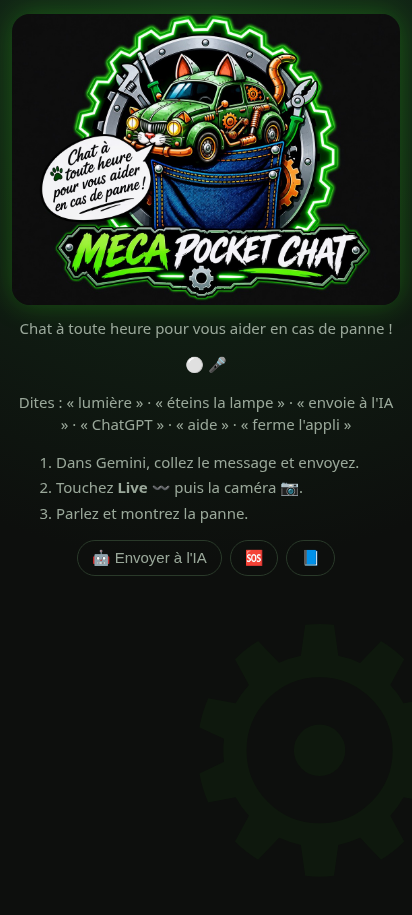
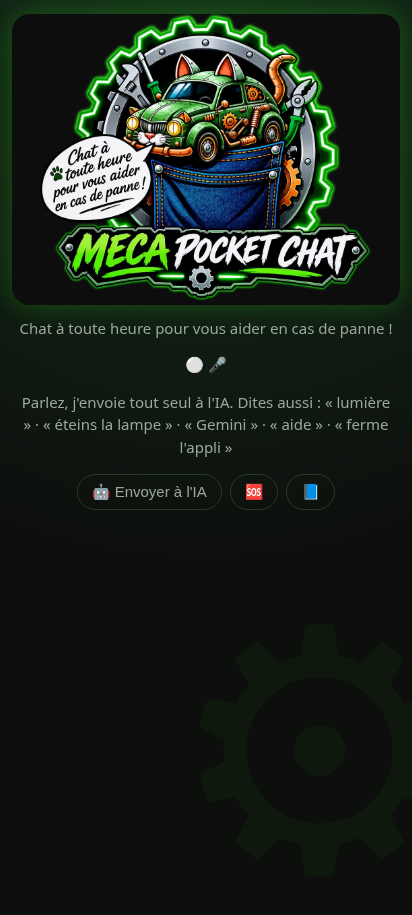
IA intégrée (Worker)

diff --git a/app.js b/app.js
@@ -37,19 +37,27 @@ REC=new R();REC.lang='fr-FR';REC.continuous=true;REC.interimResults=true;
 REC.onresult=ev=>{if(speechSynthesis.speaking)return;clearTimeout(SIL);const r=ev.results[ev.results.length-1];if(!r.isFinal){SIL=setTimeout(auto,4000);return}
 const t=r[0].transcript.trim();if(!t)return;if(!cmd(t)){DIC+=(DIC?' ':'')+t;const d=document.getElementById('d');if(d){d.style.display='block';d.value=DIC}SIL=setTimeout(auto,2500)}};
 REC.onstart=()=>ind('🟢 🎤 J\'écoute');REC.onend=()=>{ind('⚪ 🎤');if(ON)setTimeout(()=>{try{REC.start()}catch(e){}},300)};try{REC.start()}catch(e){}}
-function auto(){if(SENT||!DIC.trim())return;SENT=true;say('Je transmets à l\'IA');setTimeout(gpt,1500)}
+const API='https://meca-pocket-chat.loicm7059.workers.dev';let HIST=[];
+function frame(){try{const v=document.getElementById('prev');if(!v||!v.videoWidth)return null;const c=document.createElement('canvas');const k=512/Math.max(v.videoWidth,v.videoHeight);c.width=v.videoWidth*k;c.height=v.videoHeight*k;c.getContext('2d').drawImage(v,0,0,c.width,c.height);return c.toDataURL('image/jpeg',.7).split(',')[1]}catch(e){return null}}
+function show(t){const q=document.getElementById('qq');if(q){q.style.display='block';q.textContent=t}}
+function sayThen(t){return new Promise(r=>{try{const u=new SpeechSynthesisUtterance(t);u.lang='fr-FR';u.onend=r;u.onerror=r;speechSynthesis.cancel();speechSynthesis.speak(u)}catch(e){r()}})}
+async function auto(){if(SENT||!DIC.trim())return;SENT=true;const text=DIC.trim();DIC='';const d=document.getElementById('d');if(d)d.value='';
+show('⏳ Je réfléchis…');ind('🟡 IA');let out;
+try{const r=await fetch(API,{method:'POST',headers:{'Content-Type':'application/json'},body:JSON.stringify({history:HIST,text,imageBase64:frame()})});out=(await r.json()).text}catch(e){out='Problème de connexion. Réessayez, ou dites ChatGPT.'}
+HIST.push({role:'user',text},{role:'model',text:out});HIST=HIST.slice(-12);
+show(out.replace(/[*#]/g,''));await sayThen(out.replace(/[*#_]/g,''));SENT=false;ind('🟢 🎤 J\'écoute')}
 function stopAll(){ON=false;try{REC&&REC.stop()}catch(e){}try{lamp(false)}catch(e){}LS&&LS.getTracks().forEach(t=>t.stop());LS=null}
 function bye(){say('Au revoir, bonne route !');stopAll();m.innerHTML='<h2 style="text-align:center">👋 Au revoir, bonne route !</h2>';setTimeout(()=>{try{window.close()}catch(e){}},1500)}
 function fullPrompt(){return PROMPT+(DIC||'(pas encore décrite : demande-moi quel est mon problème)')}
 async function video(){await copy();stopAll();document.getElementById('st').style.display='block';setTimeout(()=>{location.href=GEM_LINK||'https://gemini.google.com/app'},1200)}
 async function gpt(){await copy();stopAll();location.href='https://chatgpt.com/?q='+encodeURIComponent(fullPrompt())}
-function home(){m.innerHTML=`<div id="mic" class="help" style="text-align:center">⚪ 🎤</div><h1 id="qq" style="display:none;text-align:center;font-size:40px;line-height:1.2;color:var(--g);text-shadow:0 0 14px rgba(57,255,20,.5);margin:10px 0">Quel est votre problème ?</h1>
+function home(){m.innerHTML=`<div id="mic" class="help" style="text-align:center">⚪ 🎤</div><h1 id="qq" style="display:none;text-align:center;font-size:30px;white-space:pre-line;line-height:1.2;color:var(--g);text-shadow:0 0 14px rgba(57,255,20,.5);margin:10px 0">Quel est votre problème ?</h1>
 <video id="prev" playsinline autoplay muted></video>
 <textarea id="d" rows="3" style="display:none;margin-top:10px" oninput="DIC=this.value"></textarea>
 <div id="st" class="help" style="display:none;color:var(--g)">✅ Message copié ! Gemini s'ouvre…</div>
-<p class="help" style="text-align:center">Parlez, j'envoie tout seul à l'IA. Dites aussi : « lumière » · « éteins la lampe » · « Gemini » · « aide » · « ferme l'appli »</p>
+<p class="help" style="text-align:center">Parlez, je vous réponds. Commandes : « lumière » · « éteins la lampe » · « aide » · « ferme l'appli »</p>
 
-<div class="links"><button onclick="video()">🤖 Envoyer à l'IA</button><button onclick="aide()">🆘</button><button onclick="guides()">📘</button></div>
+<div class="links"><button onclick="gpt()">ChatGPT</button><button onclick="aide()">🆘</button><button onclick="guides()">📘</button></div>
 <div id="tap" onclick="connect()" style="position:fixed;inset:0;display:none;align-items:center;justify-content:center;background:rgba(13,15,13,.85);color:var(--g);font-size:28px;font-weight:700;text-align:center;z-index:8;text-shadow:0 0 12px #39ff14">👆 Touche l'écran une fois<br>pour tout démarrer</div>`;
 if(STARTED){const p=document.getElementById('prev');if(LS){p.srcObject=LS;p.style.display='block'}const d=document.getElementById('d');if(DIC){d.style.display='block';d.value=DIC}ind(REC?'🟢 🎤 J\'écoute':'⚪ 🎤');return}
 setTimeout(async()=>{let ok=false;try{const q=await Promise.all(['camera','microphone'].map(n=>navigator.permissions.query({name:n})));ok=q.every(x=>x.state==='granted')}catch(e){}

diff --git a/sw.js b/sw.js
@@ -1,4 +1,4 @@
-const C='dep-v8',F=['./','index.html','app.js','manifest.json','icon-192.png','icon-512.png','logo.jpg'];
+const C='dep-v9',F=['./','index.html','app.js','manifest.json','icon-192.png','icon-512.png','logo.jpg'];
 self.addEventListener('install',e=>{e.waitUntil(caches.open(C).then(c=>c.addAll(F)));self.skipWaiting()});
 self.addEventListener('activate',e=>{e.waitUntil(caches.keys().then(k=>Promise.all(k.filter(x=>x!==C).map(x=>caches.delete(x)))));self.clients.claim()});
 self.addEventListener('fetch',e=>{e.respondWith(caches.match(e.request).then(r=>r||fetch(e.request)))});

diff --git a/index.html b/index.html
@@ -26,4 +26,4 @@ ol li{margin:8px 0}h2{font-size:22px;color:var(--g)}
 <main id="m"></main>
 <div id="cam"><video id="v" playsinline autoplay muted></video><div class="bar"><button class="big" id="snap">📸 Photo</button><button class="big" id="lt">🔦 Lumière</button><button class="big g" id="cc">✖ Fermer</button></div></div>
 <div id="blanc" onclick="this.style.display='none'">Touchez l'écran pour éteindre</div>
-<script src="app.js?v=8"></script></body></html>
+<script src="app.js?v=9"></script></body></html>
